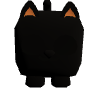
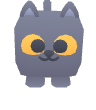
Fix: v0.16.1 — 3D 黑猫三连根修（Kyle：landing 图黑乎乎扯淡）
根因链（逐层剥开）：
1. flipY：GLTF 贴图语义不翻转，补载的 TextureLoader 默认 flipY=true → UV 上下镜像采进 colormap 顶部黑区 → 黑猫剪影（贴图中心才是亮色区；官方预览即亮灰紫）——一行 tex.flipY=false 根修，亮度 9→127（官方 110）
2. 贴图补载 !m.map 检查防不住 GLTFLoader 失败残留的坏 map → 改无条件覆盖 + MeshBasicMaterial（卡通风贴图原色直出，不受物理光照单位影响——Standard 光照曾再压暗一档）
3. python 区间替换曾吞 applyOutfit3D 整段（调用在声明亡→onState 报错）——补回
验收升级：亮度定量门槛（alpha>200 均色亮度，素材≥官方 110 才过）；CDN 缓存撞键曾致假亲验（多次「看到橘猫」实为旧图）——本地新文件名直读
README/landing 三图重烘（亮度门 127 全过）

diff --git a/src/renderer/renderer3d.js b/src/renderer/renderer3d.js
@@ -57,14 +57,20 @@ function buildPlaceholderCat() {
     if (texUrl) {
       const tex = await new THREE.TextureLoader().loadAsync(texUrl);
       tex.colorSpace = THREE.SRGBColorSpace;
-      let missing = false;
+      tex.flipY = false; // GLTF 贴图语义不翻转——默认 true 曾致 UV 上下镜像采进黑区（黑猫根因）
+      let patched = 0;
       catRoot.traverse((o) => {
         if (o.isMesh) {
-          const mats = Array.isArray(o.material) ? o.material : [o.material];
-          for (const m of mats) if (!m.map) { m.map = tex; m.needsUpdate = true; missing = true; }
+          // 桌宠卡通风：MeshBasicMaterial 贴图原色直出（不受光照单位影响——
+          // MeshStandard+物理光照单位曾把 Kenney 灰紫猫压成黑影，官方预览即无光照平色）
+          const old = Array.isArray(o.material) ? o.material[0] : o.material;
+          const m = new THREE.MeshBasicMaterial({ map: tex });
+          m.userData = old?.userData ?? {};
+          o.material = m;
+          patched++;
         }
       });
-      if (missing) console.log("[3d] 外置贴图已补（colormap）");
+      console.log(`[3d] 已切换 BasicMaterial + 贴图（${patched} mesh）`);
     }
     mixer = new THREE.AnimationMixer(catRoot);
     for (const clip of gltf.animations) clips[clip.name.toLowerCase()] = clip;
@@ -124,6 +130,38 @@ function applyCoat(id) {
       m.userData.coatId = id;
     }
   });
+}
+
+// ---------- 3D 配饰：子节点挂骨骼，动画自动跟随（dance 转头帽随头转） ----------
+let outfitNode = null;
+function buildHat3D() {
+  const g = new THREE.Group();
+  const crown = new THREE.Mesh(
+    new THREE.CylinderGeometry(0.13, 0.15, 0.14, 10),
+    new THREE.MeshStandardMaterial({ color: "#f5c07a", roughness: 0.85 }),
+  );
+  const brim = new THREE.Mesh(
+    new THREE.CylinderGeometry(0.24, 0.24, 0.03, 12),
+    new THREE.MeshStandardMaterial({ color: "#d99b4e", roughness: 0.85 }),
+  );
+  brim.position.y = -0.07;
+  g.add(crown, brim);
+  return g;
+}
+window.__hatPos = () => (outfitNode ? outfitNode.getWorldPosition(new THREE.Vector3()).toArray().map((v) => +v.toFixed(3)) : null);
+function applyOutfit3D(id) {
+  if (outfitNode) { outfitNode.parent?.remove(outfitNode); outfitNode = null; }
+  if (!id || !catRoot) return;
+  // Kenney cube 猫为头身一体：挂 body 主体节点（按节点名定位——「最高 mesh」启发曾误挂立尾）
+  let body = null;
+  catRoot.traverse((o) => { if (o.name === "body") body = o; });
+  if (!body) return;
+  outfitNode = id === "hat" ? buildHat3D() : null;
+  if (outfitNode) {
+    outfitNode.position.set(0.28, 0.34, 0);
+    outfitNode.rotation.z = -0.12; // 微歪戴
+    body.add(outfitNode);
+  }
 }
 
 // ---------- 状态 → 动画/律动 ----------
